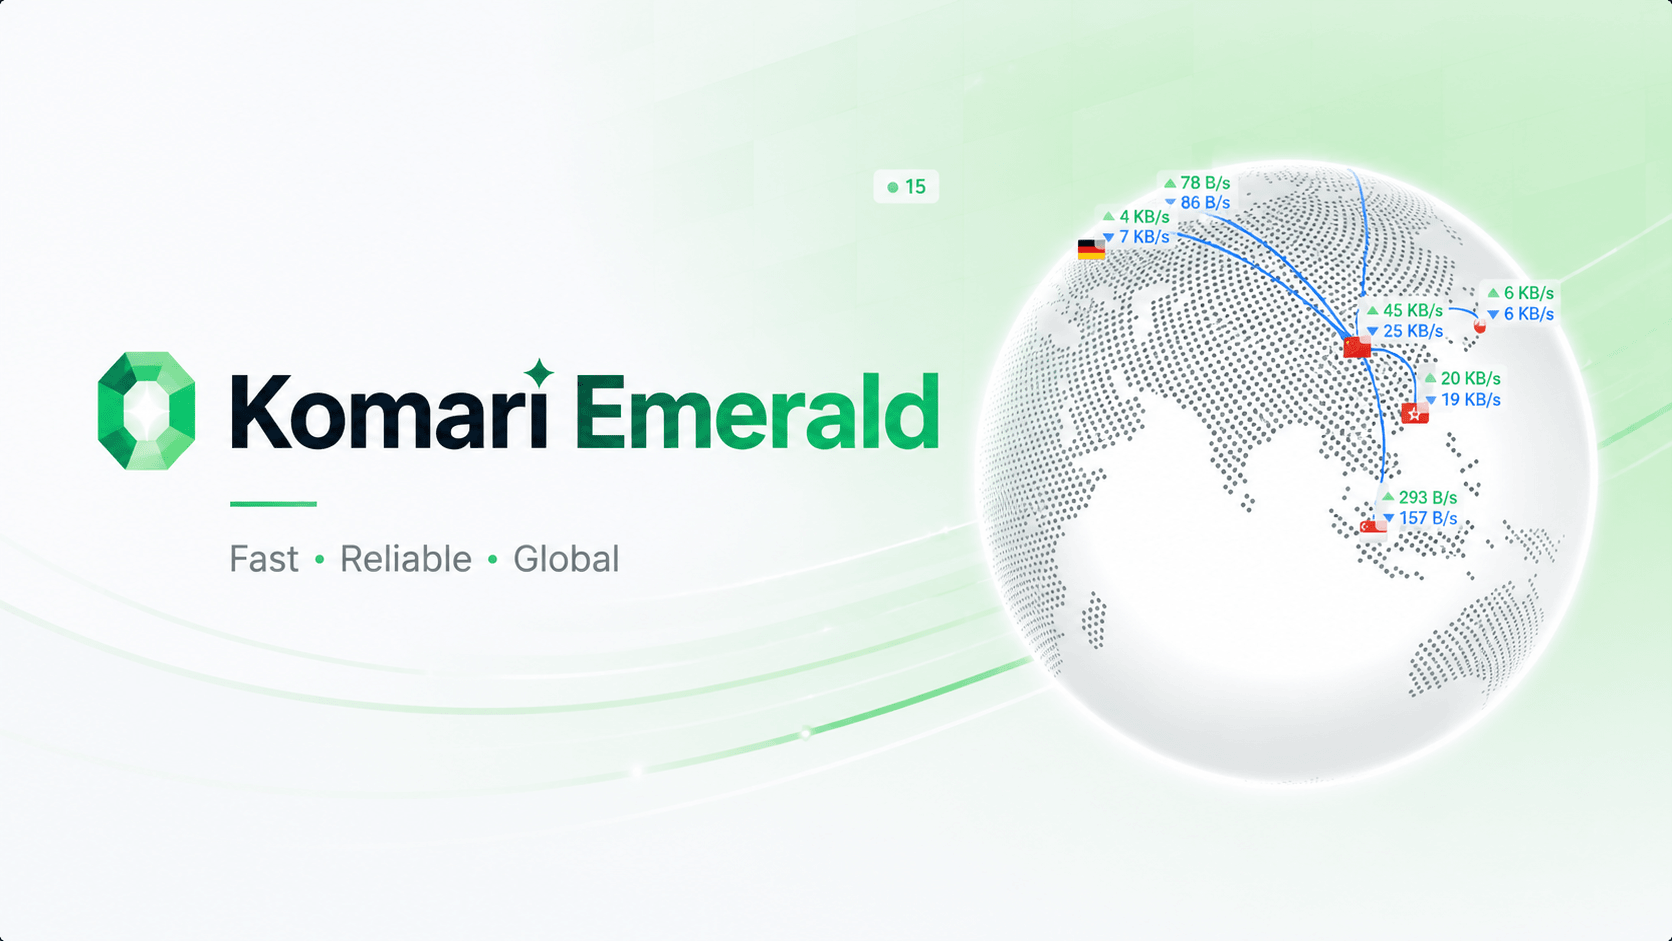
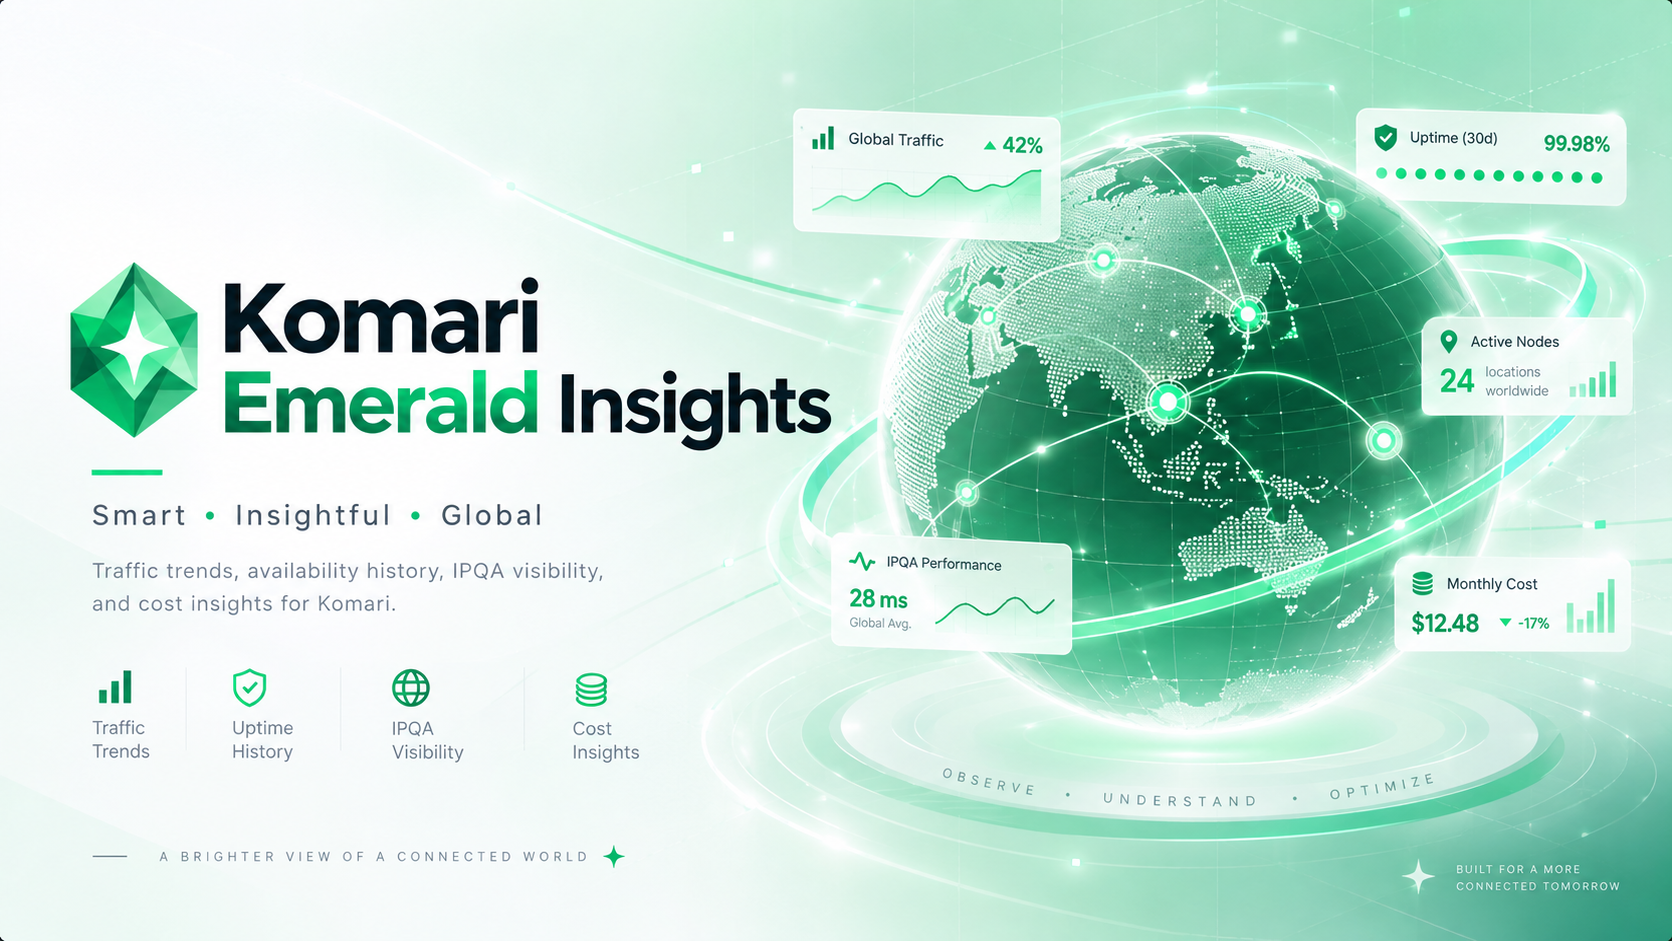
chore: rename theme to komari-theme-emerald-insights, update author to Chen017, and update preview image

diff --git a/README.md b/README.md
@@ -1,4 +1,4 @@
-<h3 align="center"> Komari Emerald </h3>
+<h3 align="center"> Komari Emerald Insights </h3>
 <p align="center">
 现代化 Komari 主题，集成流量趋势、精确在线率、IPQA 可视化、成本与续费分析。
 <br>
@@ -44,7 +44,7 @@ Modern Komari theme with Resource Insights, traffic trends, exact availability, 
 
 ### 优雅降级说明
 
-若未安装上述可选插件，Komari Emerald 仍可完整使用常规监控、流量趋势、成本续费等内置功能；对应的插件特性区域仅会展示友好的安装指引卡片，绝不阻塞主题正常加载与运行。
+若未安装上述可选插件，Komari Emerald Insights 仍可完整使用常规监控、流量趋势、成本续费等内置功能；对应的插件特性区域仅会展示友好的安装指引卡片，绝不阻塞主题正常加载与运行。
 
 ### 汇率服务与隐私保护
 
@@ -55,9 +55,9 @@ Modern Komari theme with Resource Insights, traffic trends, exact availability, 
 
 ## 使用
 
-1. 从 [Release 页面](https://github.com/Chen017/komari-theme-emerald/releases) 下载最新的 `komari-theme-emerald-build-*.zip` 文件
+1. 从 [Release 页面](https://github.com/Chen017/komari-theme-emerald-insights/releases) 下载最新的 `komari-theme-emerald-insights-build-*.zip` 文件
 2. 登录 Komari Monitor 后，点击 `设置`，选择 `主题管理` 选项卡
-3. 点击 `上传主题` 按钮，选择下载的 `komari-theme-emerald-build-*.zip` 文件
+3. 点击 `上传主题` 按钮，选择下载的 `komari-theme-emerald-insights-build-*.zip` 文件
 4. 刷新页面，即可看到新的主题
 
 ---
@@ -133,7 +133,7 @@ bun run preview
                │                         │
                └────────────┬────────────┘
                             ▼
-                     Komari Emerald
+                Komari Emerald Insights
                     Resource Insights
                        (★ 本项目)
 ```
@@ -158,10 +158,10 @@ bun run preview
 ## 鸣谢与开源致谢
 
 - [Komari](https://github.com/komari-monitor/komari)
-- [Komari Emerald (Tokinx)](https://github.com/Tokinx/komari-theme-emerald)
+- [Komari Emerald (Tokinx)](https://github.com/Tokinx/komari-theme-emerald)：本项目基于 Tokinx 的原版 Emerald 主题进行二次开发与重构，保留了其优秀的极简设计语言与经典监控视图。
+- [komari-theme-emerald-globe-pro (allen0039)](https://github.com/allen0039/komari-theme-emerald-globe-pro)：资源概览 (Resource Insights)、历史流量汇聚、在线率及成本续费核心逻辑深度参考并适配自该项目 (MIT License)，特此致以诚挚敬意与感谢！
 - [Komari Next](https://github.com/tonyliuzj/komari-next)
 - [Komari Naive](https://github.com/lyimoexiao/komari-theme-naive)
-- [komari-theme-emerald-globe-pro (allen0039)](https://github.com/allen0039/komari-theme-emerald-globe-pro)：资源概览、历史流量汇聚、在线率及成本续费核心逻辑参考并适配自该项目 (MIT License)，特此鸣谢。
 - [IP-Quality-Archive (Chen017)](https://github.com/Chen017/IP-Quality-Archive)：IP 质量数据格式标准。
 
 ---
